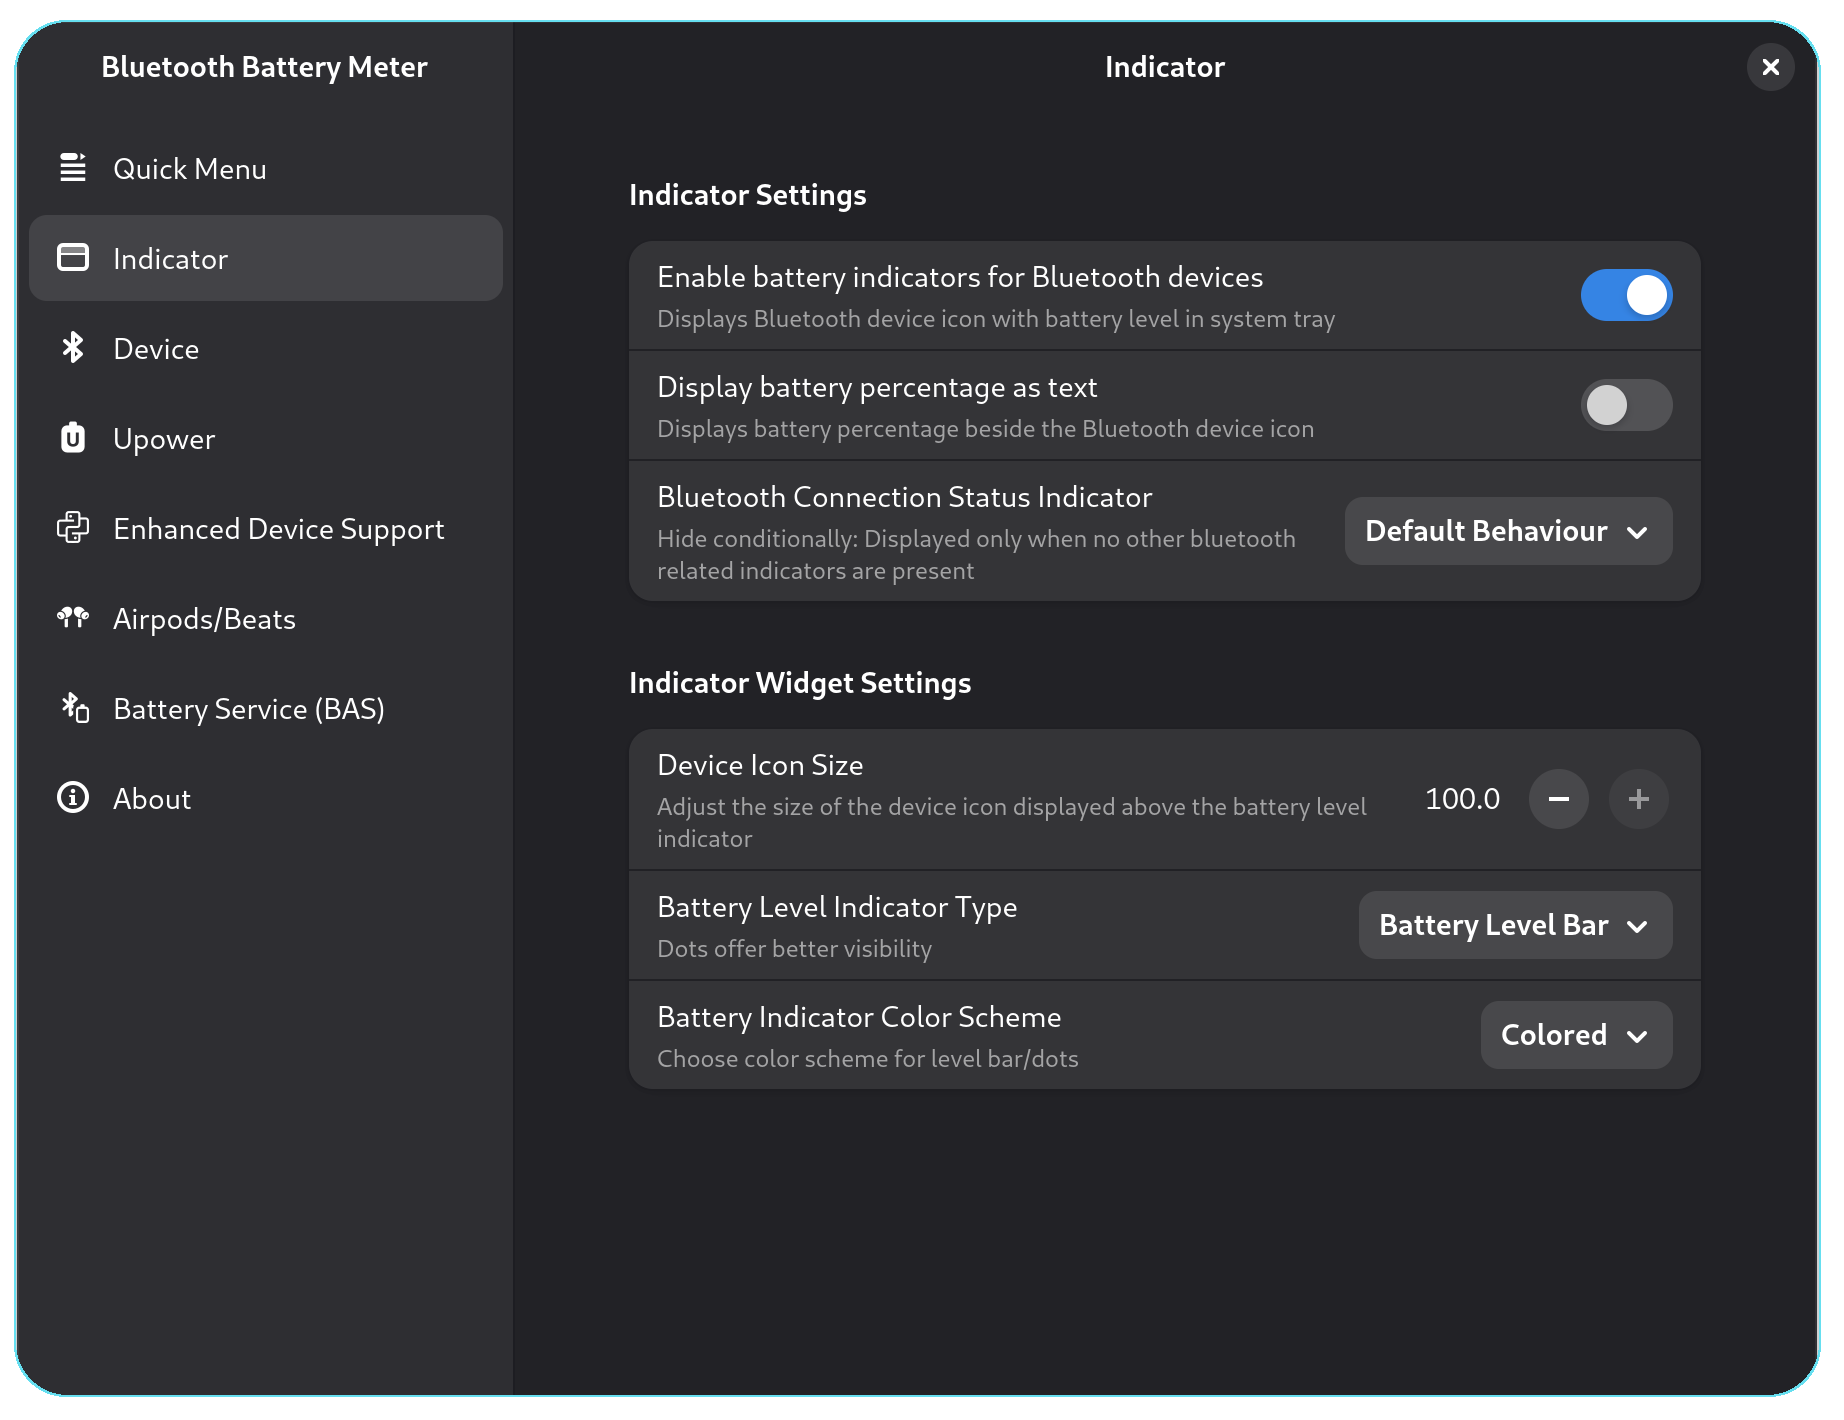
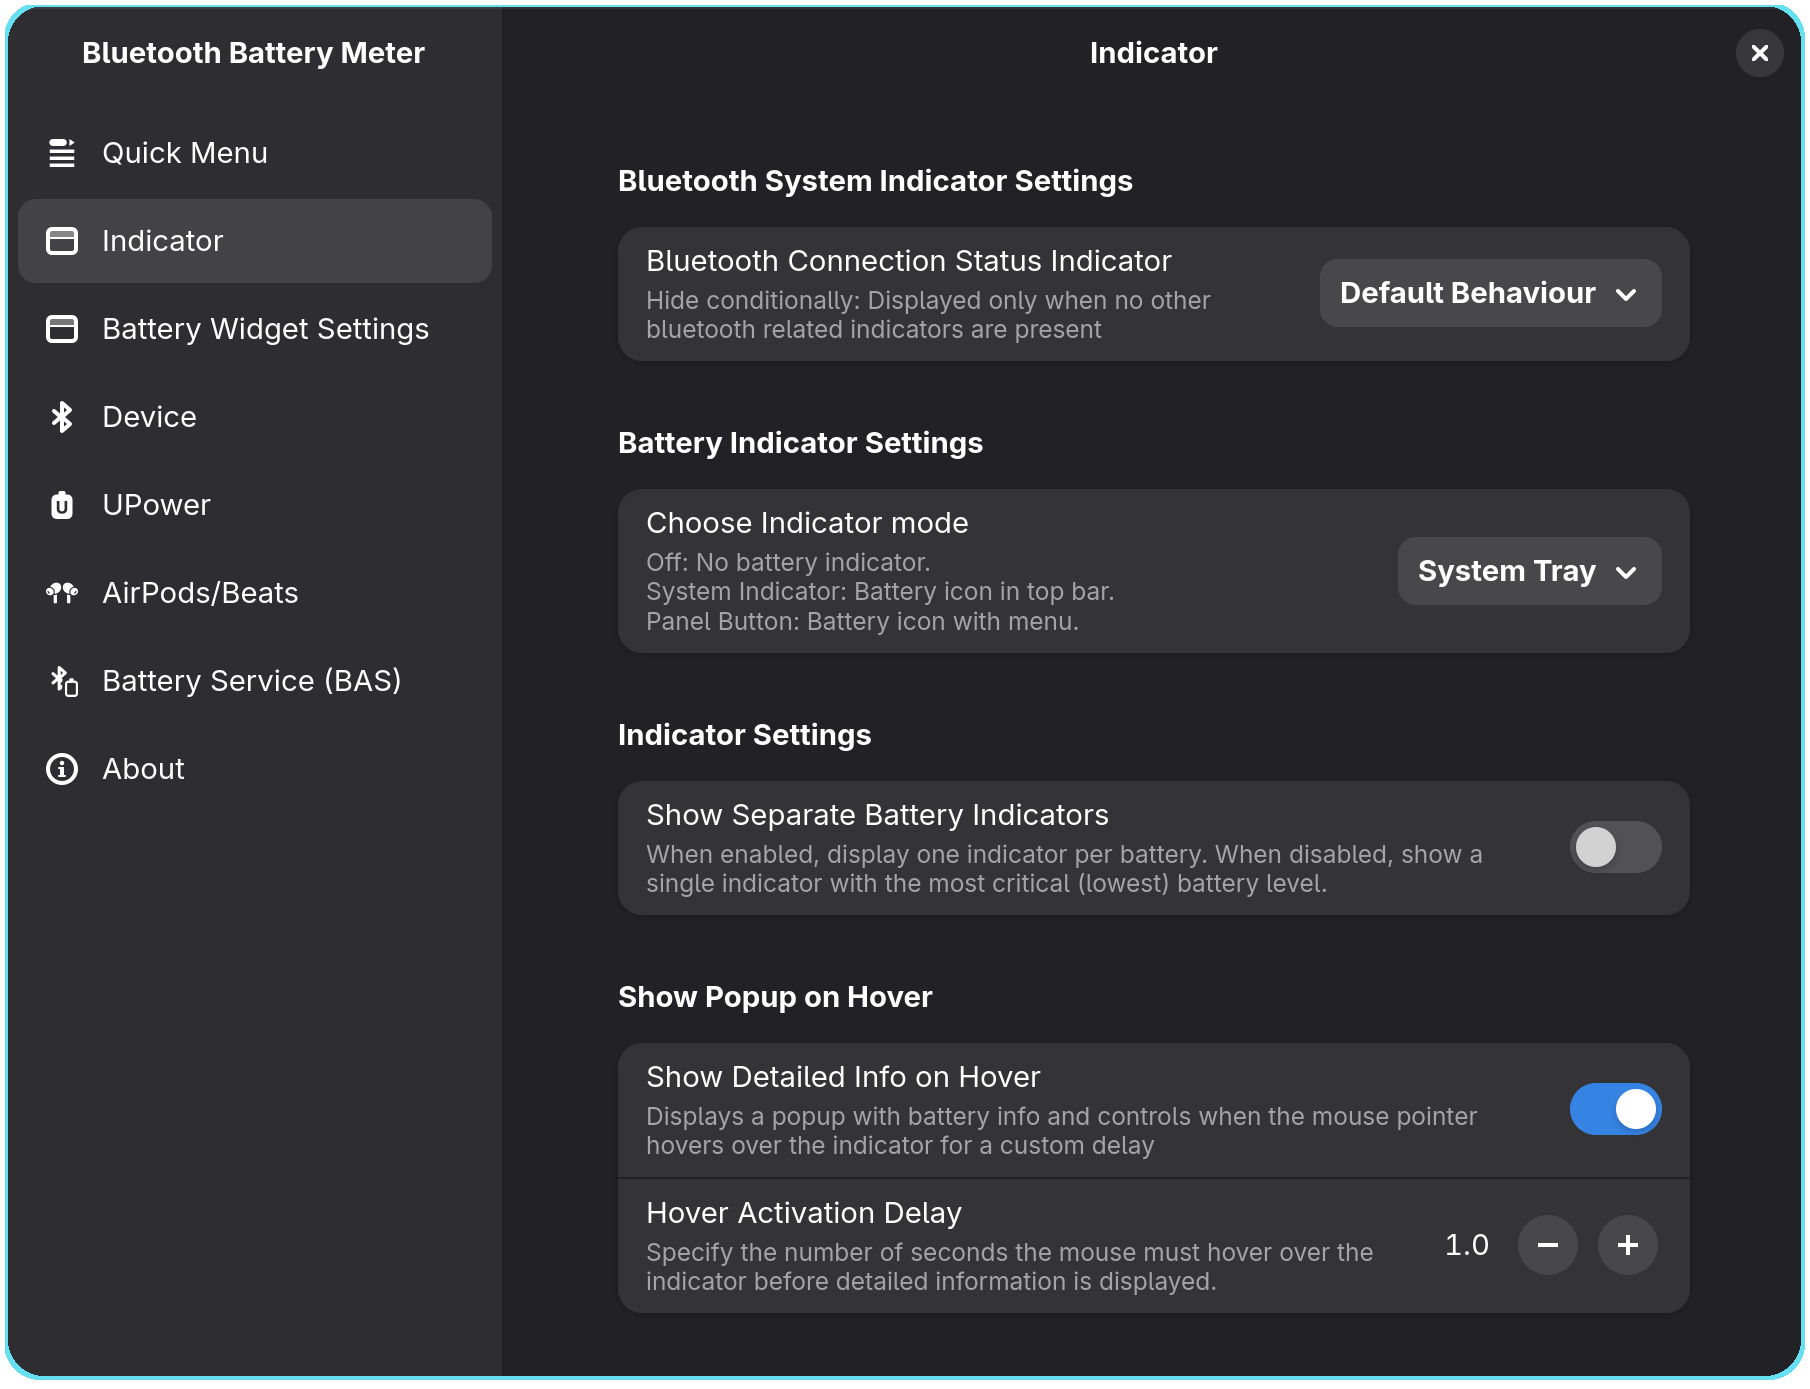
Reorder

diff --git a/docs/Preferences/BatteryWidget.md b/docs/Preferences/BatteryWidget.md
@@ -1,0 +1,131 @@
+---
+layout: default
+title: Battery Widget Settings
+parent: Preferences
+nav_order: 3
+permalink: /preferences/indicator
+---
+
+
+## Indicator Settings
+<br>
+<br>
+
+**Bluetooth Indicator**
+<br>
+<img src="{{ 'assets/images/preferences/indicator/indicator.png' | relative_url }}" width="40%">
+
+**Indicator Preferences**
+<br>
+<img src="{{ 'assets/images/preferences/indicator/indicator-prefs.png' | relative_url }}" width="100%">
+
+---
+
+## Enable battery indicators for Bluetooth devices
+Displays Bluetooth device icon with battery level in system tray without being very intrusive.
+<br>
+<img src="{{ 'assets/images/preferences/indicator/indicator.png' | relative_url }}" width="40%">
+
+---
+
+## Display battery percentage as text
+Display battery percentage in text next to the indicator icon. 
+<br>
+<img src="{{ 'assets/images/preferences/indicator/indicator-text.png' | relative_url }}" width="50%">
+<br>
+<br>
+
+---
+
+## Bluetooth Connection Status Indicator
+<br>
+**Default GNOME behavior:** When one or more Bluetooth devices are connected, the Bluetooth Connection Status Indicator will be displayed.
+<br>
+<br>
+<img src="{{ 'assets/images/preferences/indicator/status-normal.png' | relative_url }}" width="20%">
+<br>
+
+This setting provides three options:
+- **Default Behavior:** The icon will follow its original behavior as intended by GNOME.
+<img src="{{ 'assets/images/preferences/indicator/status-indicator.png' | relative_url }}" width="40%">
+<br>
+- **Hide Always:** The Bluetooth Connection Status Indicator icon will always be hidden.
+    <img src="{{ 'assets/images/preferences/indicator/status-hidden.png' | relative_url }}" width="40%">
+    <br>
+
+- **Hide Conditionally:** The Bluetooth Connection Status Indicator icon will remain hidden if a Bluetooth device indicator is displayed. If no individual Bluetooth device indicator is shown in the system tray, the Bluetooth Connection Status Indicator icon will be displayed.
+
+    Bluetooth Status Icon hidden when Bluetooth device indicator are displayed
+    <img src="{{ 'assets/images/preferences/indicator/status-hidden.png' | relative_url }}" width="40%">
+    <br>
+
+    Bluetooth Status Icon shown when no Bluetooth device indicators are displayed
+    <img src="{{ 'assets/images/preferences/indicator/status-normal.png' | relative_url }}" width="20%">
+    <br>
+
+<br>
+
+---
+
+## **Indicator: Battery Level Type**
+<br>
+<br>
+**Extension Preferences**
+<br>
+<br>
+<img src="{{ 'assets/images/preferences/indicator/settings-indicator-level-type.png' | relative_url }}" width="100%">
+<br>
+
+Available levels types are Battery Level Bar and Battery Level Bar.
+- **Battery Level Bar:** display a battery bar below the device icon.
+- **Battery Level Dots:** displays dots representing level of battery.
+
+
+**Battery Level Bar Mode**
+
+<img src="{{ 'assets/images/preferences/indicator/level-bar.png' | relative_url }}" width="10%">
+
+
+**Battery Level Dots Mode**
+
+<img src="{{ 'assets/images/preferences/indicator/level-50-dot.png' | relative_url }}" width="10%">
+
+| Symbolic | Battery Level |
+|:-:|:-:|
+| <img src="{{ 'assets/images/preferences/indicator/level-100-dot.png' | relative_url }}" width="15%"> | Approx. Fully Charge<br>Battery level: 100 - 76%  |
+| <img src="{{ 'assets/images/preferences/indicator/level-75-dot.png' | relative_url }}" width="15%"> | Battery level: 75-51% |
+| <img src="{{ 'assets/images/preferences/indicator/level-50-dot.png' | relative_url }}" width="15%"> | Battery level: 50-26% |
+| <img src="{{ 'assets/images/preferences/indicator/level-25-dot.png' | relative_url }}" width="15%"> | Battery level: 25-20% |
+| <img src="{{ 'assets/images/preferences/indicator/level-20-dot.png' | relative_url }}" width="15%"> | Warning! Below 20%<br>Battery level: 20-0% |
+
+---
+## **Indicator: Battery Level Color Scheme**
+<br>
+<img src="{{ 'assets/images/preferences/indicator/settings-indicator-level-scheme.png' | relative_url }}" width="100%">
+<br>
+
+This setting provides three options to customize the color scheme:
+
+- **Symbolic Color:** 
+  The color of the bar/dot will match the system indicator's foreground color (typically black or white, depending on the theme) when the battery percentage is greater than 20%.
+  If the battery percentage falls below 20%, the bar/dot will use the system's warning color (usually orange, depending on the theme).
+
+<img src="{{ 'assets/images/preferences/indicator/level-bar.png' | relative_url }}" width="10%">
+<img src="{{ 'assets/images/preferences/indicator/color-20-bar.png' | relative_url }}" width="10%">
+<img src="{{ 'assets/images/preferences/indicator/level-50-dot.png' | relative_url }}" width="10%">
+<img src="{{ 'assets/images/preferences/indicator/level-20-dot.png' | relative_url }}" width="10%">
+
+- **Color:** 
+  The color of the bar/dot will be **green** when the battery percentage is above 20%, and **orange** when it is 20% or lower.
+
+<img src="{{ 'assets/images/preferences/indicator/color-50-bar.png' | relative_url }}" width="10%">
+<img src="{{ 'assets/images/preferences/indicator/color-20-bar.png' | relative_url }}" width="10%">
+<img src="{{ 'assets/images/preferences/indicator/color-50-dot.png' | relative_url }}" width="10%">
+<img src="{{ 'assets/images/preferences/indicator/level-20-dot.png' | relative_url }}" width="10%">
+
+- **Customize:**
+  Allows you to define custom colors for different battery level ranges.
+  
+<img src="{{ 'assets/images/preferences/indicator/settings-indicator-level-customize.png' | relative_url }}" width="100%">
+
+

diff --git a/docs/Preferences/Device.md b/docs/Preferences/Device.md
@@ -2,7 +2,7 @@
 layout: default
 title: Device
 parent: Preferences
-nav_order: 3
+nav_order: 4
 permalink: /preferences/device
 ---
 

diff --git a/docs/Preferences/UPower.md b/docs/Preferences/UPower.md
@@ -2,7 +2,7 @@
 layout: default
 title: UPower
 parent: Preferences
-nav_order: 4
+nav_order: 5
 permalink: /preferences/upower
 ---
 
